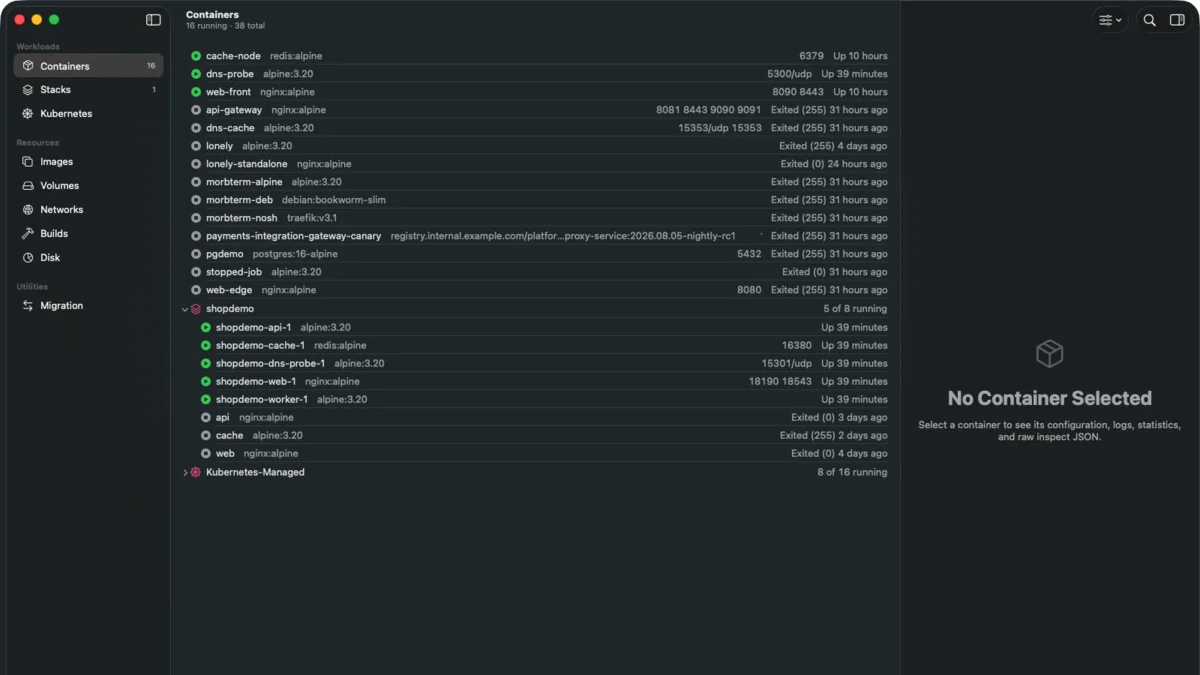
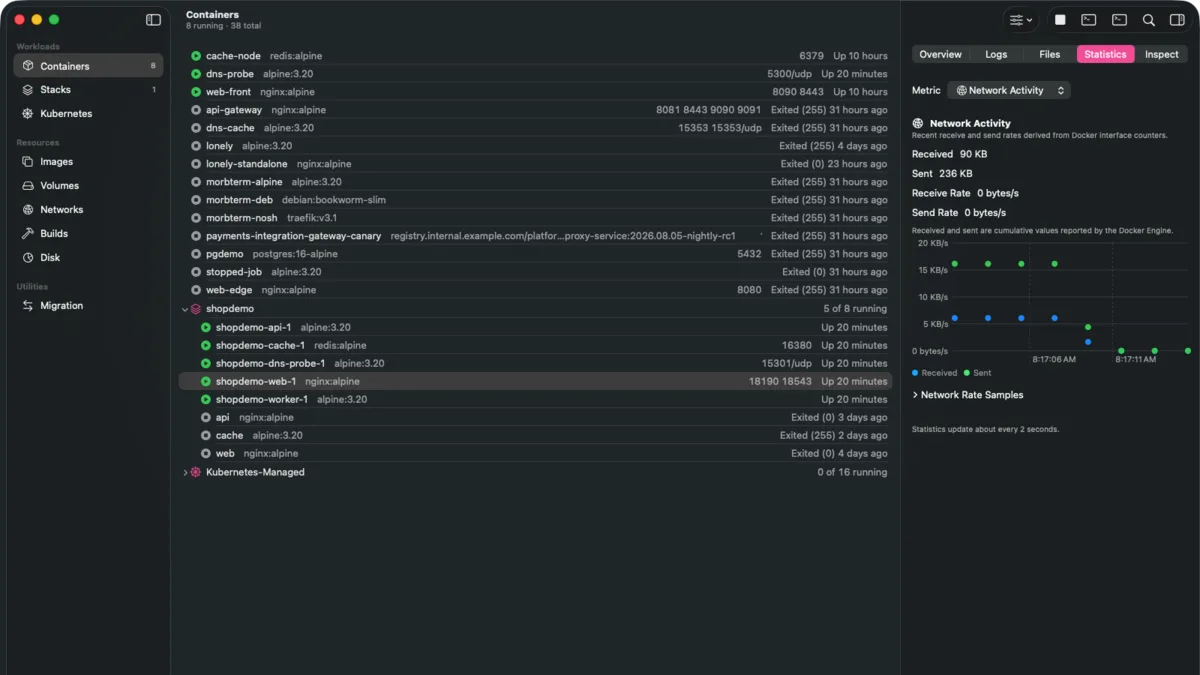
docs: refresh the Morbstack project card with a real capture (#113)
Swap the card for an unedited window-only capture from the Aug 26 2026 session showing the Containers list with the Statistics tab open, cropped to 16:9, and update the alt text to match.

diff --git a/content/projects/morbstack.md b/content/projects/morbstack.md
@@ -7,7 +7,7 @@ featured: false
 github: https://github.com/alliecatowo/morbstack
 group: agent-systems-devtools
 image: /images/projects/morbstack/card.webp
-imageAlt: "Morbstack's native macOS Containers window: 38 containers, with a Compose project and the Kubernetes system containers each collapsed into one grouped row."
+imageAlt: Morbstack's native macOS Containers window with 38 containers, a Compose project and the Kubernetes containers grouped, and the Statistics tab open for a running container.
 seo:
   title: "Morbstack: a native macOS Docker Desktop alternative"
   description: "A native macOS Docker Desktop replacement: stock upstream dockerd in one Virtualization.framework VM, a Rust PID 1, and a SwiftUI app. Pre-release."
